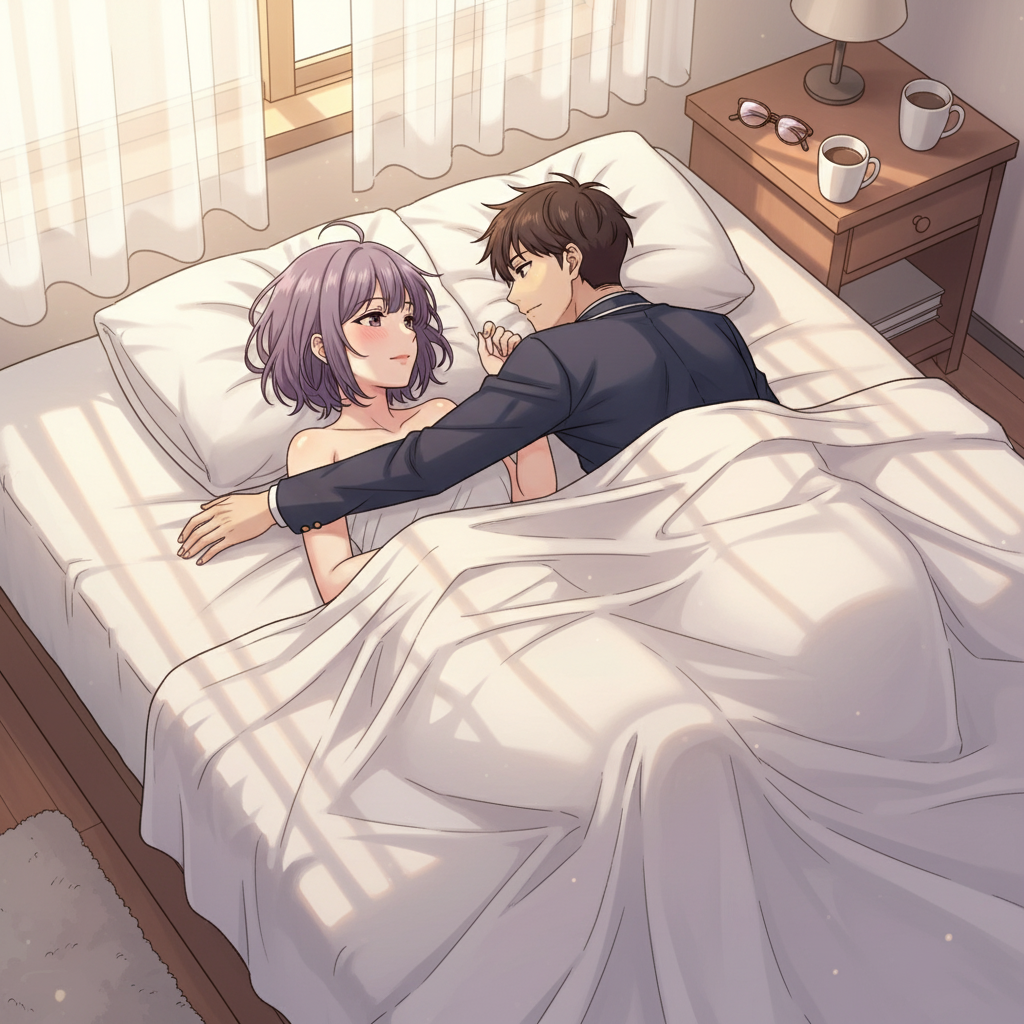
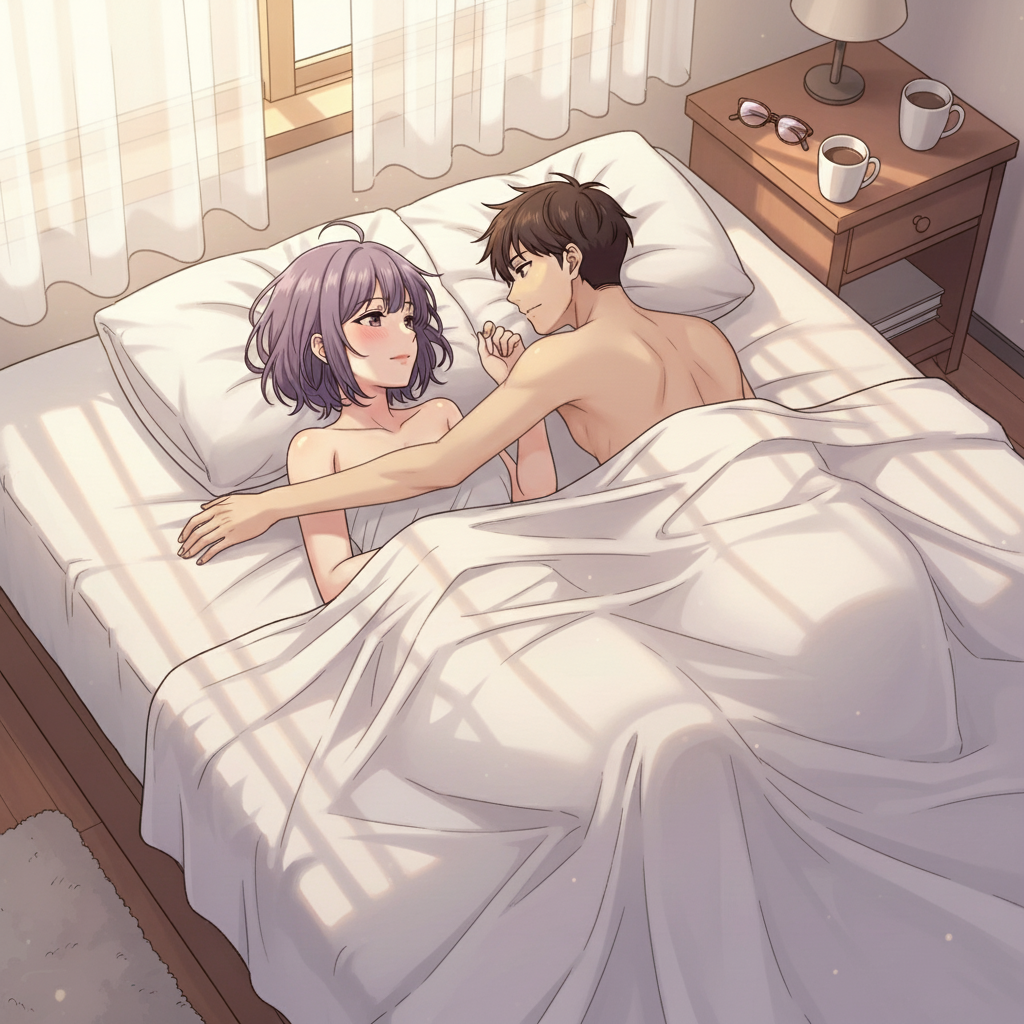
feat: 엔딩 CG 생성을 위한 generate_ending_cg5.js 파일 추가

Changed region(s): [[0.25, 0.2812, 0.7812, 0.5312]]

diff --git a/generate_ending_cg5.js b/generate_ending_cg5.js
@@ -1,0 +1,42 @@
+const fs = require('fs');
+const path = require('path');
+
+const envPath = path.join(__dirname, '..', '.env');
+const envContent = fs.readFileSync(envPath, 'utf-8');
+const API_KEY = envContent.match(/GEMINI_API_KEY=(.+)/)?.[1]?.trim();
+if (!API_KEY) { console.error('.env에서 GEMINI_API_KEY를 찾을 수 없습니다'); process.exit(1); }
+
+const charDir = path.join(__dirname, 'assets', 'images', 'characters');
+const bgDir = path.join(__dirname, 'assets', 'images', 'background');
+
+const nurseRef = fs.readFileSync(path.join(charDir, 'nurse_normal.png')).toString('base64');
+const currentCG = fs.readFileSync(path.join(bgDir, 'ending_perfect_nurse.png')).toString('base64');
+
+const prompt = `Edit this anime CG image. The man on the right is currently wearing a dark shirt/top. Change it so that his shoulders and upper back are bare skin - he should not be wearing any shirt or top. Only bare skin shoulders visible above the blanket, matching the woman's bare shoulders. Keep everything else exactly the same - same composition, same poses, same arm pillow, same woman, same bedding, same lighting.`;
+
+async function generate() {
+  const url = `https://generativelanguage.googleapis.com/v1beta/models/gemini-2.5-flash-image:generateContent?key=${API_KEY}`;
+
+  const body = {
+    contents: [{ parts: [
+      { inlineData: { mimeType: 'image/png', data: currentCG } },
+      { text: prompt }
+    ]}],
+    generationConfig: { responseModalities: ['TEXT', 'IMAGE'] }
+  };
+
+  console.log('Editing nurse perfect - removing man shirt...');
+  const response = await fetch(url, { method: 'POST', headers: { 'Content-Type': 'application/json' }, body: JSON.stringify(body) });
+  if (!response.ok) { console.error('API error:', (await response.text()).slice(0, 500)); return; }
+
+  const data = await response.json();
+  for (const c of (data.candidates || []))
+    for (const p of (c.content?.parts || []))
+      if (p.inlineData) {
+        fs.writeFileSync(path.join(bgDir, 'ending_perfect_nurse.png'), Buffer.from(p.inlineData.data, 'base64'));
+        console.log('Saved');
+      }
+  console.log('Done');
+}
+
+generate().catch(console.error);
